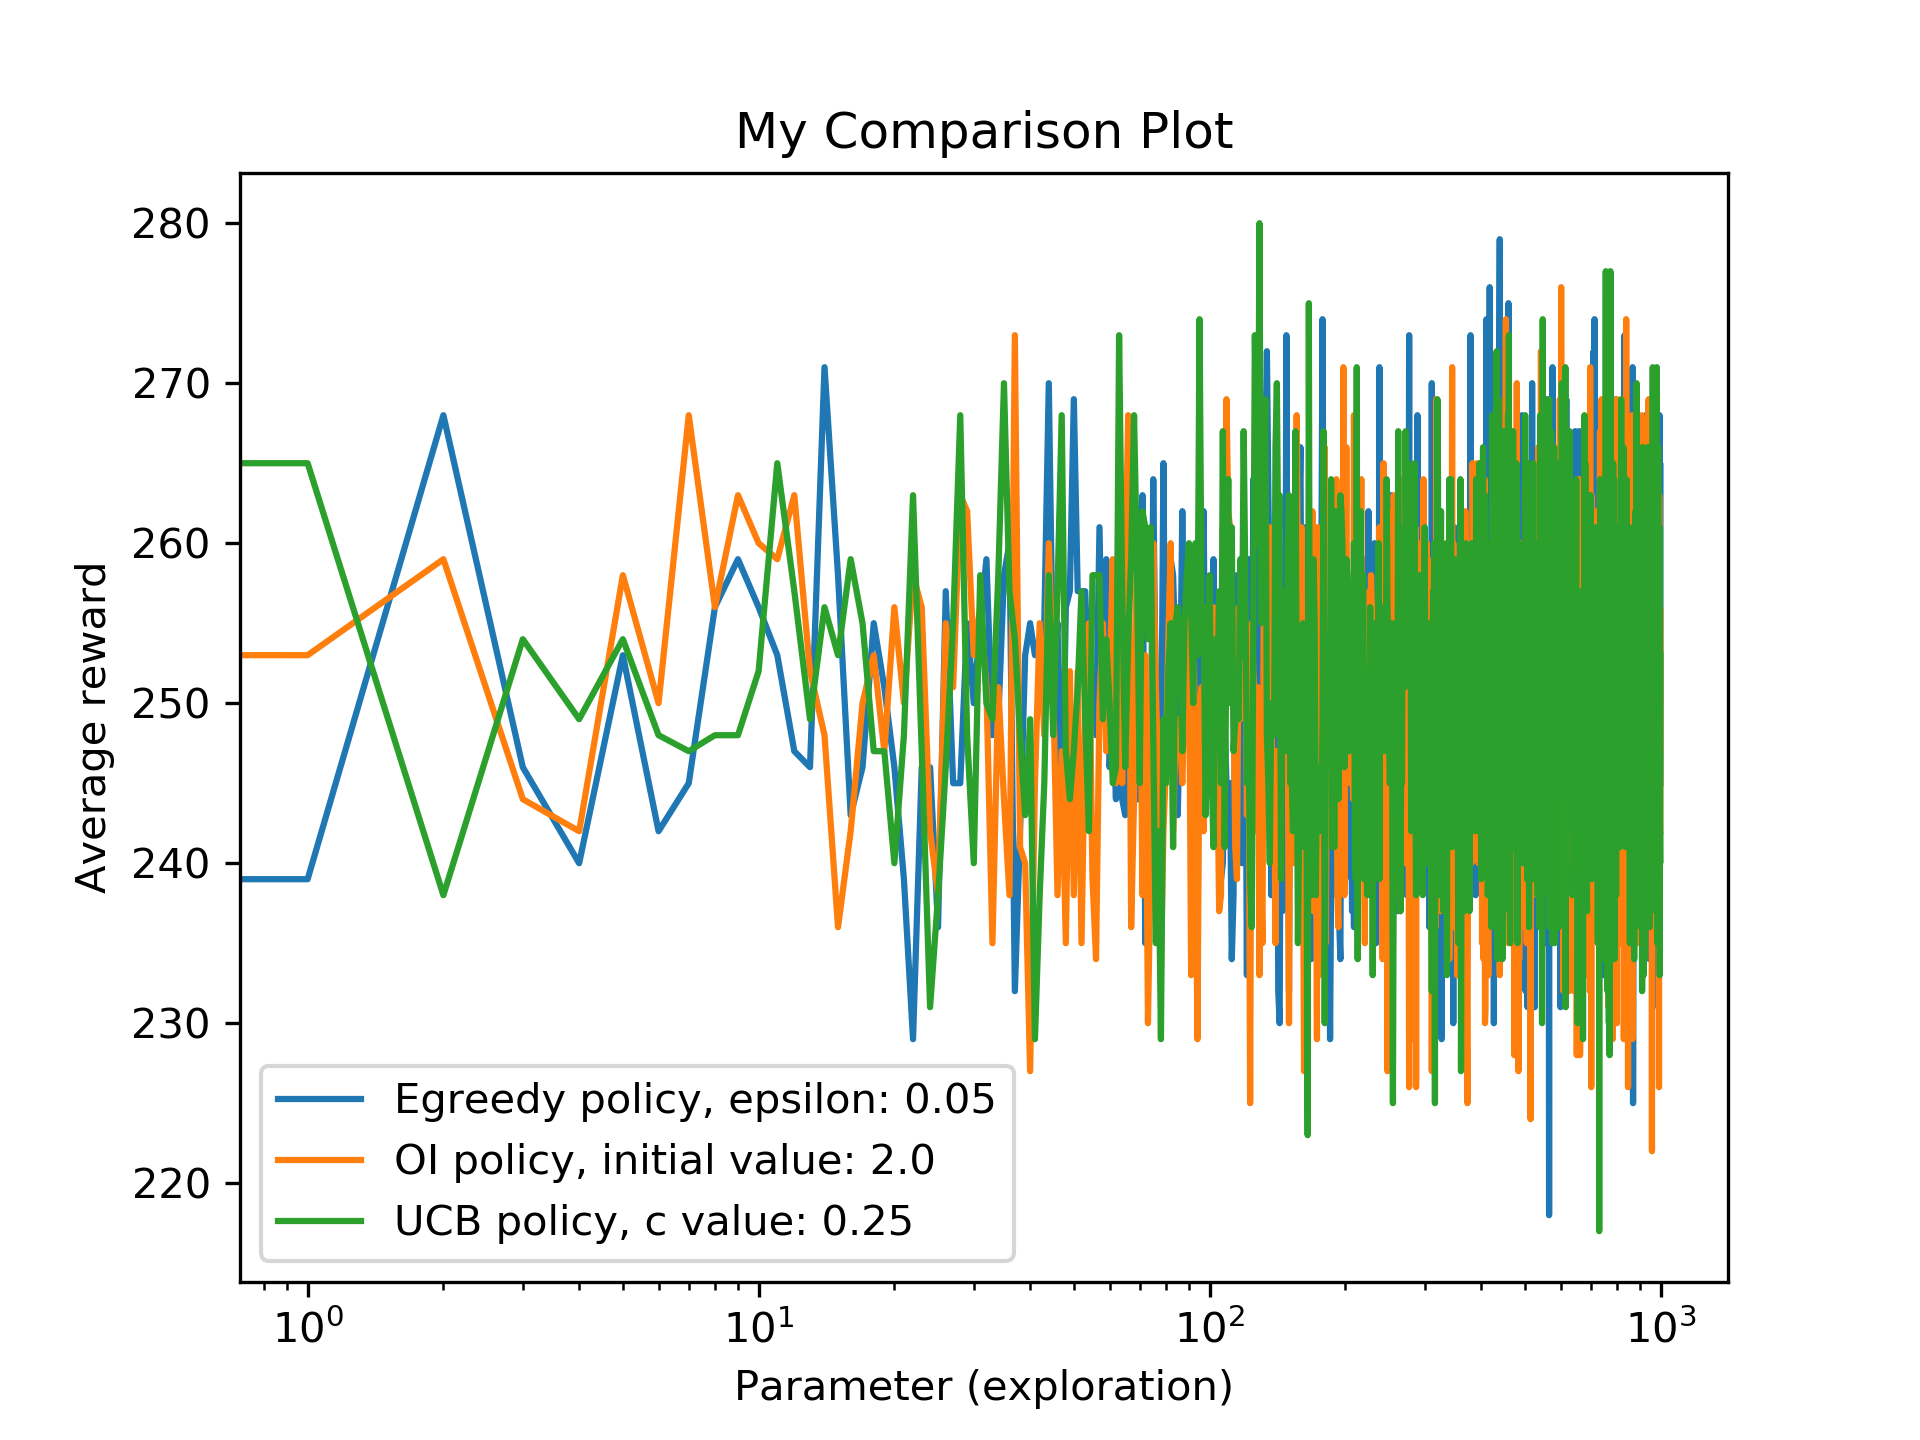
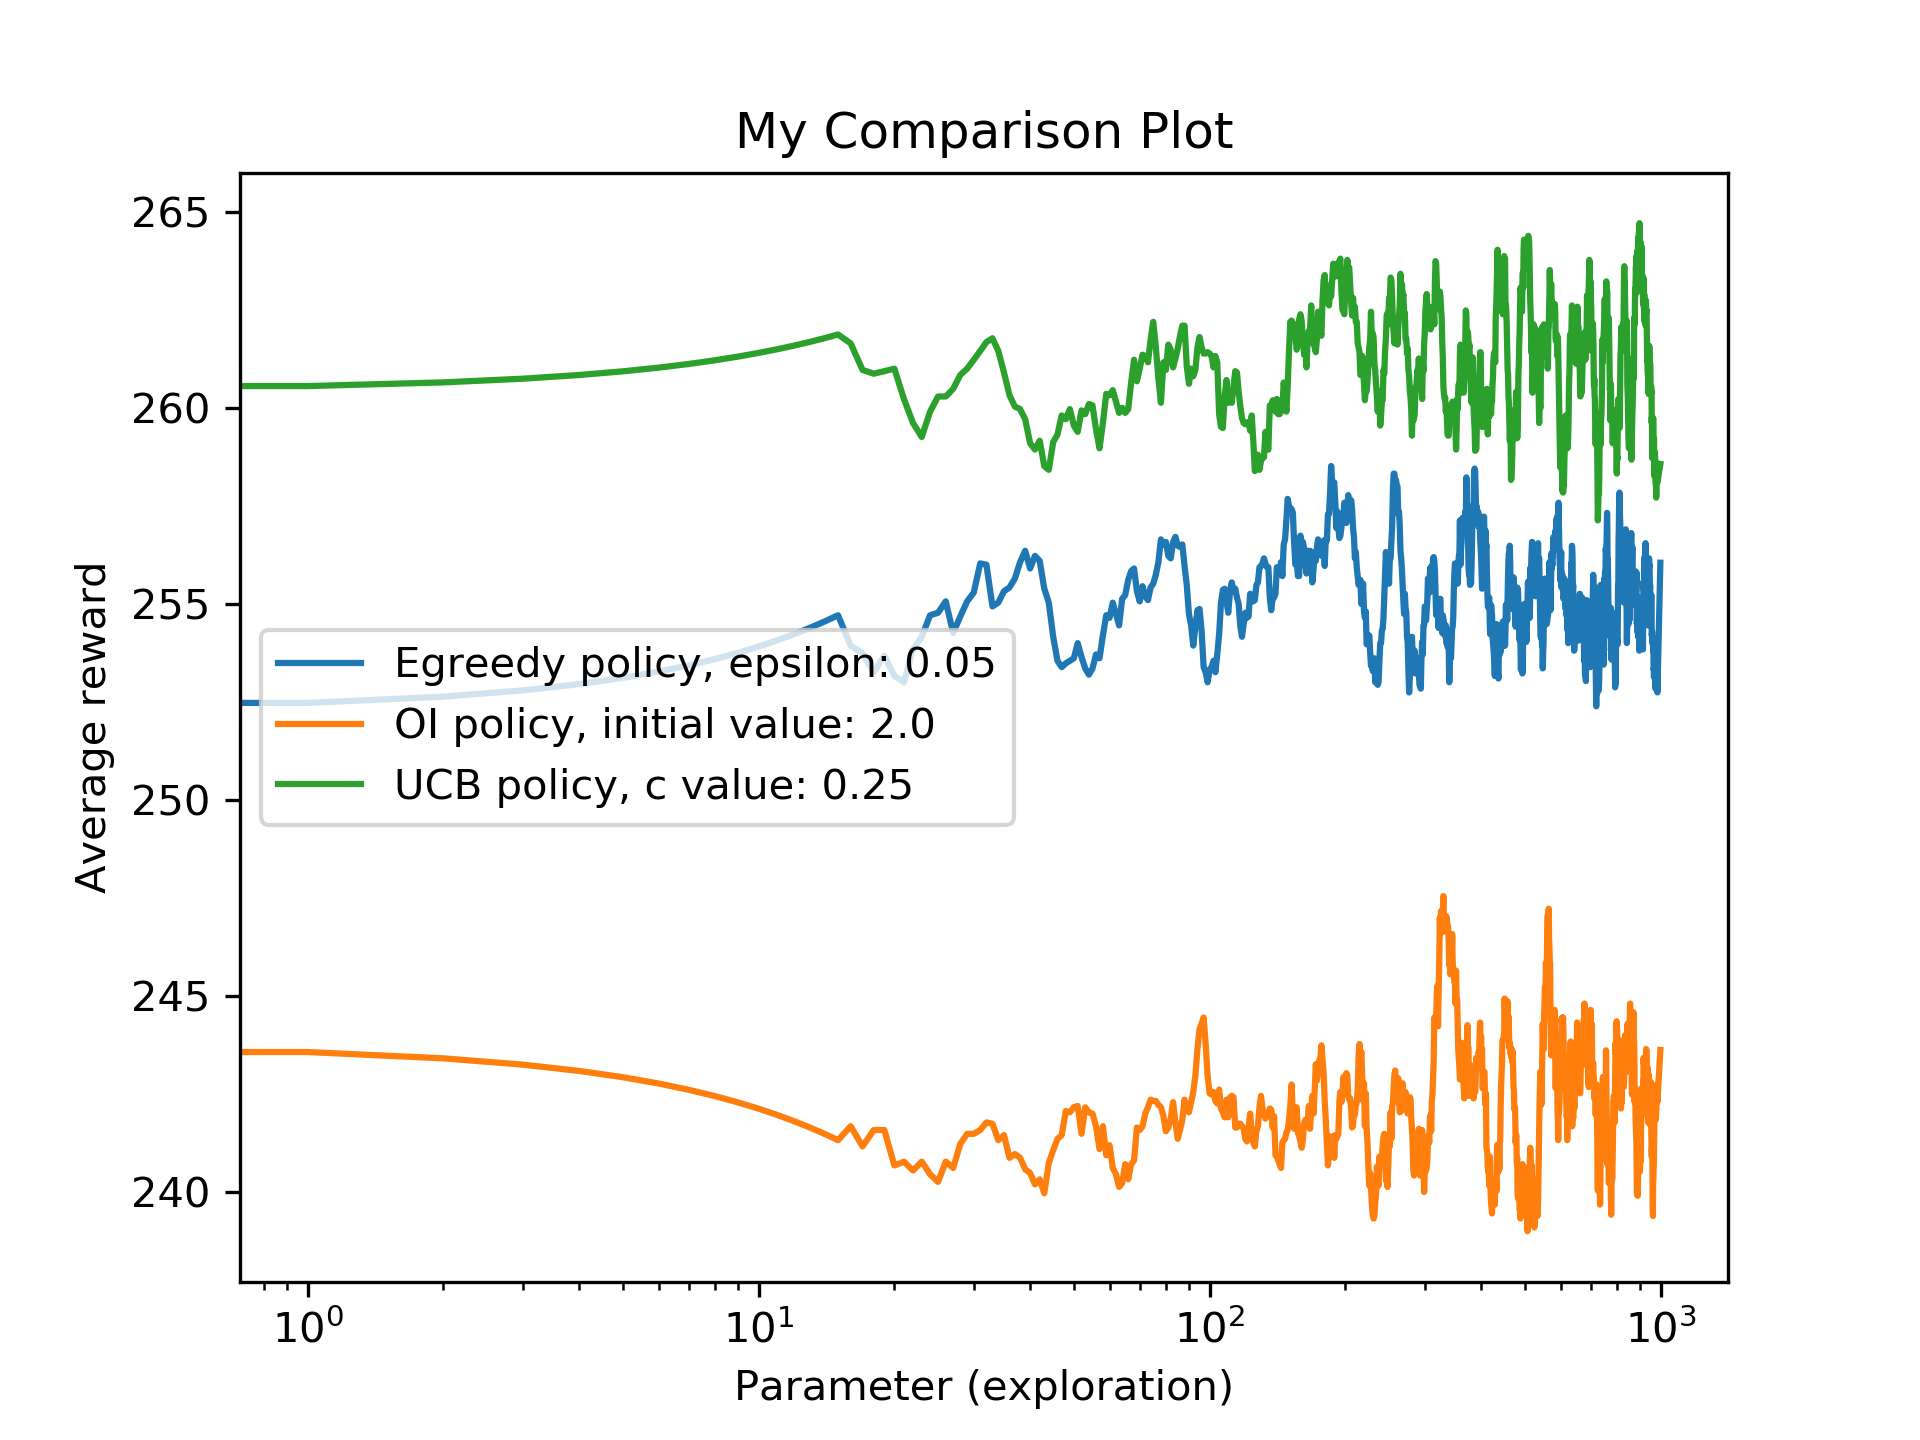
"added UCB policy and comparison plot"

diff --git a/BanditExperiment.py b/BanditExperiment.py
@@ -50,20 +50,21 @@ def experiment(n_actions, n_timesteps, n_repetitions, smoothing_window):
     
     policy = EgreedyPolicy(n_actions=10)
     reward_array = run_repetitions(n_timesteps=1000, n_repetitions=500, input_value=0.05, policy=policy)
-    plot.add_curve(x=np.arange(n_timesteps), y=reward_array, label="Egreedy policy, epsilon: 0.05")
+    smoothed = smooth(reward_array, smoothing_window)
+    plot.add_curve(x=np.arange(n_timesteps), y=smoothed, label="Egreedy policy, epsilon: 0.05")
     
     policy = OIPolicy(n_actions=10)
     reward_array = run_repetitions(n_timesteps=1000, n_repetitions=500, input_value=2.0, policy=policy)
-    plot.add_curve(x=np.arange(n_timesteps), y=reward_array, label="OI policy, initial value: 2.0")
+    smoothed = smooth(reward_array, smoothing_window)
+    plot.add_curve(x=np.arange(n_timesteps), y=smoothed, label="OI policy, initial value: 2.0")
     
     policy = UCBPolicy(n_actions=10)
     reward_array = run_repetitions(n_timesteps=1000, n_repetitions=500, input_value=0.25, policy=policy)
-    plot.add_curve(x=np.arange(n_timesteps), y=reward_array, label="UCB policy, c value: 0.25")
+    smoothed = smooth(reward_array, smoothing_window)
+    plot.add_curve(x=np.arange(n_timesteps), y=smoothed, label="UCB policy, c value: 0.25")
     
     plot.save("my_plot.png")
     
-    
-    pass
 
 def run_repetitions(n_timesteps, n_repetitions, input_value, policy):
     reward_array = np.zeros(n_timesteps)

diff --git a/BanditPolicies.py b/BanditPolicies.py
@@ -63,17 +63,29 @@ class UCBPolicy:
 
     def __init__(self, n_actions=10):
         self.n_actions = n_actions
-        # TO DO: Add own code
-        pass
+        self.Q_a = np.zeros(n_actions)
+        self.n_a = np.zeros(n_actions)
     
     def select_action(self, c, t):
         # TO DO: Add own code
-        a = np.random.randint(0,self.n_actions) # Replace this with correct action selection
-        return a
+        for n in range(self.n_actions):
+            if self.n_a[n] == 0:
+                self.Q_a[n] = np.inf
+                return np.argmax(self.Q_a)
+            
+            values = self.Q_a + c * np.sqrt(np.log(t)/self.n_a)
+            if self.Q_a[n] == np.argmax(values):
+                self.Q_a[n] = 1
+            else:
+                self.Q_a[n] = 0
+        
+        return np.argmax(self.Q_a)
         
     def update(self,a,r):
         # TO DO: Add own code
-        pass
+        self.n_a[a] += 1
+        if self.n_a[a] != 0:
+            self.Q_a[a] += (1/self.n_a[a]) * (r - self.Q_a[a])
     
 def test():
     n_actions = 10
